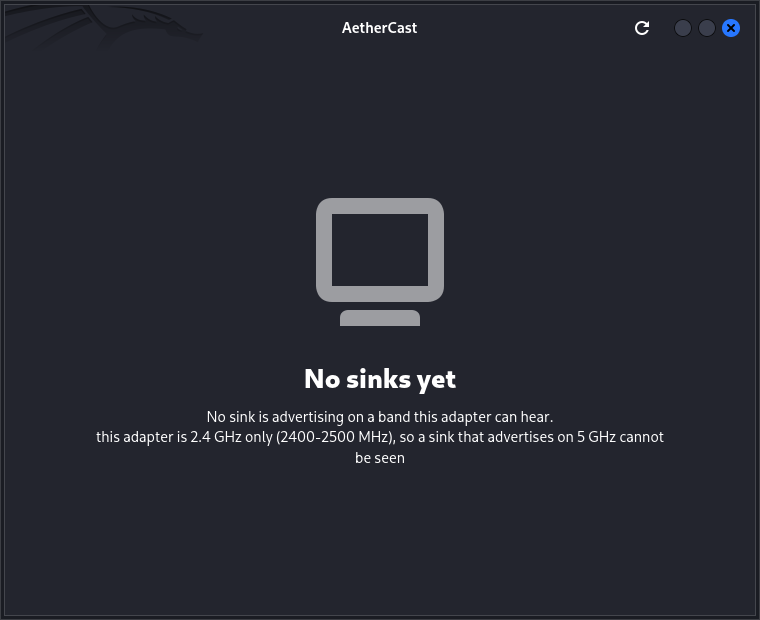
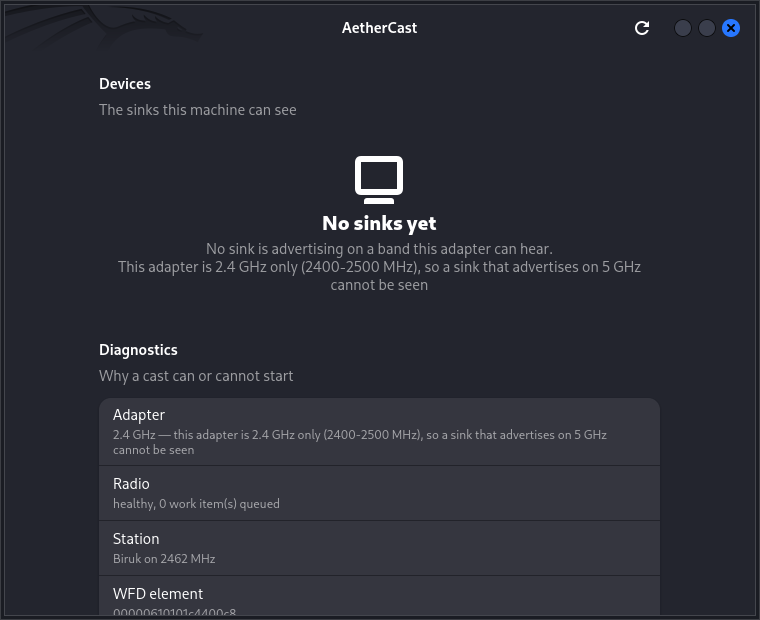
fix: the empty state belongs in the group, not in the window
An AdwStatusPage wants the whole window, and the empty state has to sit
in a group with the diagnostics below it. Inside the group the status
page showed its icon and swallowed its own title and reason, which is
the one thing it exists to say.

The empty state is now built from plain widgets — an icon, a title, and
a wrapped reason — so it behaves the way it looks, and the diagnostics
stay visible underneath it.

diff --git a/crates/aethercast-client/src/main.rs b/crates/aethercast-client/src/main.rs
@@ -64,7 +64,7 @@ struct Ui {
     commander: Commander,
     banner: adw::Banner,
     device_stack: gtk::Stack,
-    empty: adw::StatusPage,
+    empty_reason: gtk::Label,
     device_list: gtk::ListBox,
     session_group: adw::PreferencesGroup,
     session_list: gtk::ListBox,
@@ -96,11 +96,29 @@ impl Ui {
 
         // The empty state says *why* there is nothing to cast to, so the
         // description is filled in from the diagnostics.
-        let empty = adw::StatusPage::builder()
-            .icon_name("video-display-symbolic")
-            .title("No sinks yet")
-            .description("Looking for Miracast sinks.")
-            .build();
+        //
+        // It is built from plain widgets rather than an AdwStatusPage: a
+        // status page wants the whole window, and this one has to sit in
+        // a group with the diagnostics below it.
+        let empty_title = gtk::Label::new(Some("No sinks yet"));
+        empty_title.add_css_class("title-2");
+        let empty_reason = gtk::Label::new(Some("Looking for Miracast sinks."));
+        empty_reason.set_wrap(true);
+        empty_reason.set_justify(gtk::Justification::Center);
+        empty_reason.add_css_class("dim-label");
+
+        let empty = gtk::Box::new(gtk::Orientation::Vertical, 6);
+        empty.set_halign(gtk::Align::Center);
+        empty.set_valign(gtk::Align::Center);
+        empty.set_margin_top(24);
+        empty.set_margin_bottom(24);
+        empty.set_margin_start(12);
+        empty.set_margin_end(12);
+        let icon = gtk::Image::from_icon_name("video-display-symbolic");
+        icon.set_pixel_size(48);
+        empty.append(&icon);
+        empty.append(&empty_title);
+        empty.append(&empty_reason);
 
         let device_stack = gtk::Stack::new();
         device_stack.add_named(&device_list, Some("list"));
@@ -171,7 +189,7 @@ impl Ui {
             commander,
             banner,
             device_stack,
-            empty,
+            empty_reason,
             device_list,
             session_group,
             session_list,
@@ -349,7 +367,7 @@ impl Ui {
                             .to_string(),
                     },
                 };
-                self.empty.set_description(Some(&reason));
+                self.empty_reason.set_text(&reason);
             }
         }
 
@@ -460,15 +478,14 @@ mod tests {
     use super::*;
 
     /// The empty state has to be able to say *why* there is nothing to
-    /// cast to, so the description has to change.
+    /// cast to, so the reason has to change.
     #[test]
-    fn the_status_page_description_changes() {
+    fn the_empty_state_changes_its_reason() {
         gtk4::init().expect("gtk has to initialise");
-        let page = libadwaita::StatusPage::new();
-        page.set_description(Some("the first reason"));
-        assert_eq!(page.description().as_deref(), Some("the first reason"));
-        page.set_description(Some("the second reason"));
-        assert_eq!(page.description().as_deref(), Some("the second reason"));
+        let label = gtk4::Label::new(Some("the first reason"));
+        assert_eq!(label.text().as_str(), "the first reason");
+        label.set_text("the second reason");
+        assert_eq!(label.text().as_str(), "the second reason");
     }
 
     /// A sentence the daemon wrote starts in the middle of a thought.
